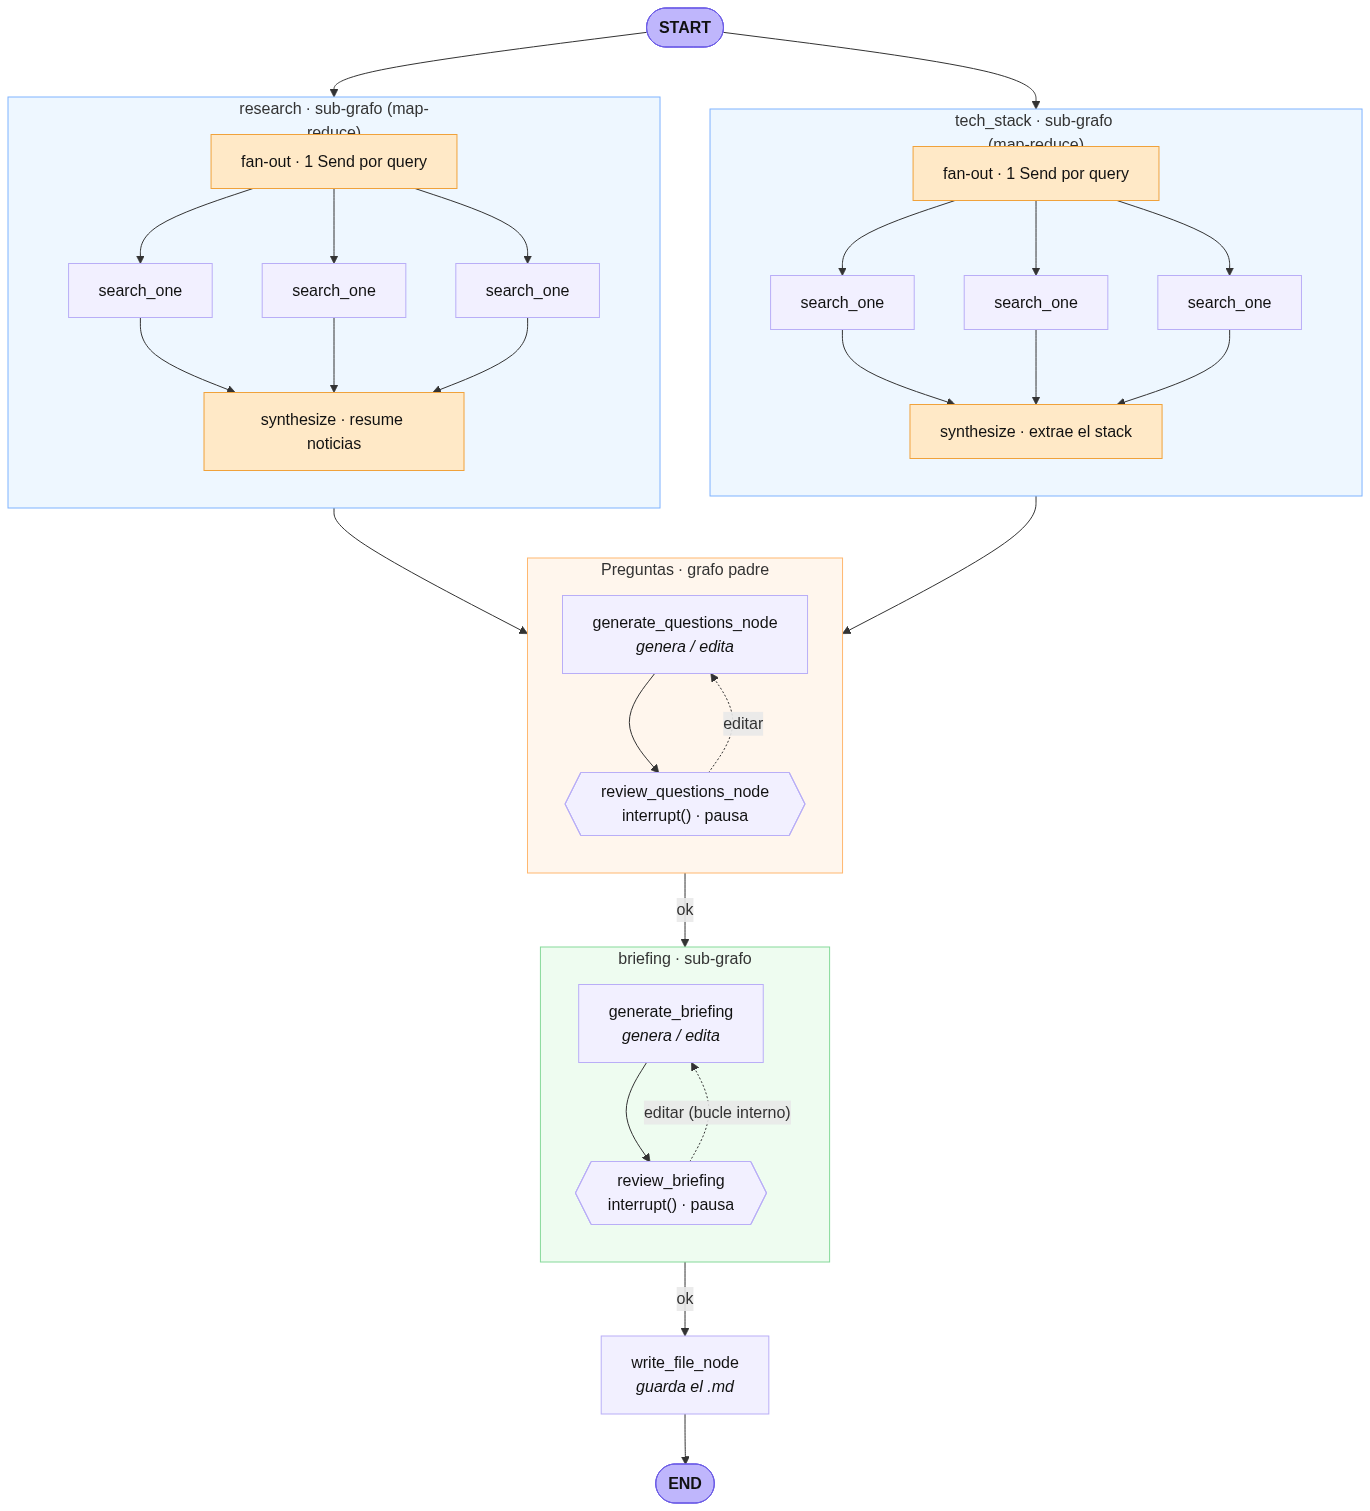
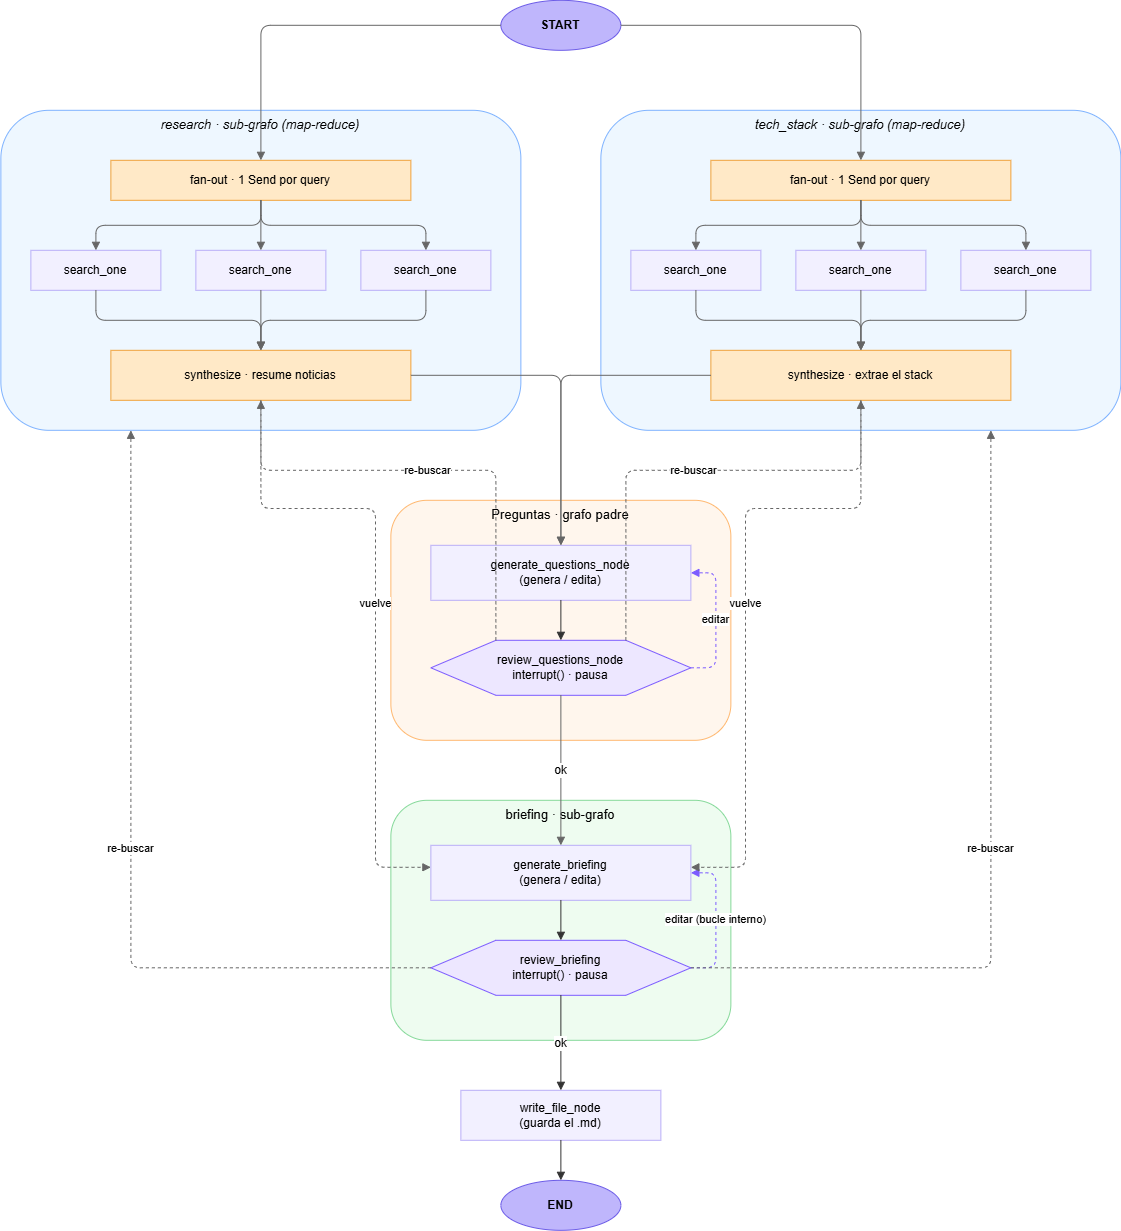
docs: use single graph.drawio diagram; remove all Mermaid
Switch the README to show only graph.png (exported from the hand-laid
graph.drawio, which fits START-on-top plus the re-search back-arrows in one
diagram). Remove the Mermaid generator and artifacts: show_graph.py, graph.mmd,
graph-loops.mmd, graph-loops.png. Update the "Visualizar el grafo" section and
project structure accordingly.

diff --git a/README.md b/README.md
@@ -32,103 +32,13 @@ En cada pausa puedes:
 
 ## Arquitectura del grafo
 
-```mermaid
-flowchart TD
-    START([START]):::se
+![Grafo del agente](graph.png)
 
-    subgraph RES["research · sub-grafo (map-reduce)"]
-        direction TB
-        rfan["fan-out · 1 Send por query"]:::map
-        rw1["search_one"]
-        rw2["search_one"]
-        rw3["search_one"]
-        rsyn["synthesize · resume noticias"]:::map
-        rfan --> rw1 & rw2 & rw3 --> rsyn
-    end
-
-    subgraph TEC["tech_stack · sub-grafo (map-reduce)"]
-        direction TB
-        tfan["fan-out · 1 Send por query"]:::map
-        tw1["search_one"]
-        tw2["search_one"]
-        tw3["search_one"]
-        tsyn["synthesize · extrae el stack"]:::map
-        tfan --> tw1 & tw2 & tw3 --> tsyn
-    end
-
-    subgraph QST["Preguntas · grafo padre"]
-        direction TB
-        genq["generate_questions_node<br/><i>genera / edita</i>"]
-        revq{{"review_questions_node<br/>interrupt() · pausa"}}
-        genq --> revq
-        revq -. "editar" .-> genq
-    end
-
-    subgraph BRF["briefing · sub-grafo"]
-        direction TB
-        genb["generate_briefing<br/><i>genera / edita</i>"]
-        revb{{"review_briefing<br/>interrupt() · pausa"}}
-        genb --> revb
-        revb -. "editar (bucle interno)" .-> genb
-    end
-
-    write["write_file_node<br/><i>guarda el .md</i>"]
-    DONE([END]):::se
-
-    START --> RES
-    START --> TEC
-    RES --> QST
-    TEC --> QST
-    QST -- "ok" --> BRF
-    BRF -- "ok" --> write
-    write --> DONE
-
-    classDef se fill:#bfb6fc,stroke:#6c5ce7,color:#111,font-weight:bold;
-    classDef default fill:#f2f0ff,stroke:#b9aef7,color:#111;
-    classDef map fill:#ffe9c7,stroke:#f0a23b,color:#111;
-    style RES fill:#eef7ff,stroke:#7fb3ff
-    style TEC fill:#eef7ff,stroke:#7fb3ff
-    style QST fill:#fff6ed,stroke:#ffb870
-    style BRF fill:#eefcf0,stroke:#86d99a
-```
-
-El diagrama de arriba muestra el **camino principal** (la espina vertical) y, dentro
-de cada caja, sus detalles: el map-reduce de búsqueda y el bucle interno de
-**edición** (`editar`).
-
-Aparte, los **bucles de feedback** que ocurren cuando NO respondes `ok` en una
-revisión van en este segundo diagrama (se separan porque, dibujados sobre la espina
-vertical, descuadran el layout):
-
-```mermaid
-flowchart LR
-    rev{{"Revisión<br/>(preguntas o briefing)<br/>interrupt() · pausa"}}:::rev
-    gen["Generar de nuevo<br/>la MISMA fase"]
-    search["research / tech_stack<br/>(volver a BUSCAR datos)"]:::map
-
-    rev -. "editar<br/>(retoque de redacción)" .-> gen
-    rev -. "re-buscar<br/>(pides datos nuevos)" .-> search
-    search -. "vuelve a la fase<br/>que pidió la búsqueda" .-> gen
-    gen -- "muestra el<br/>resultado nuevo" --> rev
-
-    classDef rev fill:#ede7ff,stroke:#7c5cff,color:#111;
-    classDef map fill:#ffe9c7,stroke:#f0a23b,color:#111;
-    classDef default fill:#f2f0ff,stroke:#b9aef7,color:#111;
-```
-
-> GitHub renderiza los bloques `mermaid` de forma interactiva. También se generan
-> `graph.png` (camino principal) y `graph-loops.png` (bucles de feedback) con
-> `python show_graph.py`, por si los prefieres como imagen.
-
-**¿Y todo en UN solo diagrama?** Los bucles de re-búsqueda apuntan *hacia arriba*
-(de una revisión de vuelta a `research`/`tech_stack`), o sea forman ciclos. Los
-motores de auto-layout de Mermaid (dagre/ELK) no pueden dibujar un ciclo como un
-árbol limpio de arriba-abajo: o descuadran las cajas, o bajan `START` del tope. Por
-eso arriba se separan en dos diagramas. Si quieres **todo junto con START arriba y
-las flechas de vuelta**, hay un diagrama hecho a mano (coordenadas fijas) en
-[`graph.drawio`](graph.drawio): ábrelo con [draw.io](https://app.diagrams.net),
-la app de escritorio o la extensión *Draw.io Integration* de VSCode. Es editable
-pero **no se autogenera** desde el código (hay que mantenerlo a mano).
+> Diagrama hecho a mano en [`graph.drawio`](graph.drawio) (coordenadas fijas, para
+> que el ciclo de re-búsqueda quede legible con `START` arriba). Ábrelo y edítalo con
+> [draw.io](https://app.diagrams.net), la app de escritorio, o la extensión *Draw.io
+> Integration* de VSCode; `graph.png` es su exportación. **No se autogenera** desde el
+> código: si cambias el grafo, actualízalo a mano.
 
 ### Cómo funciona por dentro (resumen sencillo)
 
@@ -177,9 +87,6 @@ Cuatro ideas clave del diseño:
 **Dos niveles de paralelismo:** (A) `research` ‖ `tech_stack` como hermanos desde
 `START`; (B) dentro de cada uno, sus 3 `search_one` a la vez. `briefing` no tiene
 paralelismo interno (es `generate → review` + bucle de edición).
-
-> El diagrama se regenera con `python show_graph.py`. Está dibujado a mano en
-> `show_graph.py` para que se lea bien; si cambias el grafo, actualiza también ese archivo.
 
 ### Comprobar que los sub-grafos y el map-reduce corren de verdad
 
@@ -274,12 +181,9 @@ en `briefings/`.
 
 ## Visualizar el grafo
 
-```powershell
-python show_graph.py
-```
-
-Genera `graph.png` (ábrelo en VSCode) y `graph.mmd` (texto Mermaid, previsualizable
-con la extensión *Markdown Preview Mermaid Support*).
+Abre [`graph.drawio`](graph.drawio) con [draw.io](https://app.diagrams.net), la app
+de escritorio o la extensión *Draw.io Integration* de VSCode. Para refrescar la
+imagen, expórtalo a `graph.png` (en draw.io: *File → Export as → PNG*).
 
 ---
 
@@ -288,13 +192,11 @@ con la extensión *Markdown Preview Mermaid Support*).
 ```
 .
 ├── interview_agent.py   # el agente (grafo padre + sub-grafos + map-reduce) — comentado en español
-├── show_graph.py        # genera el diagrama del grafo (graph.png / graph.mmd)
 ├── inspect_run.py       # ejecuta con stream(subgraphs=True) para ver sub-grafos y map-reduce
 ├── requirements.txt     # dependencias
 ├── .env.example         # plantilla de variables de entorno
-├── graph.png            # diagrama: camino principal (espina vertical)
-├── graph-loops.png      # diagrama: bucles de feedback (editar / re-buscar)
-├── graph.drawio         # diagrama hecho a mano: todo en uno (editable en draw.io)
+├── graph.drawio         # diagrama del grafo (editable en draw.io)
+├── graph.png            # imagen del diagrama (exportada de graph.drawio)
 └── briefings/           # salida: los .md generados (ignorada por git)
 ```
 
